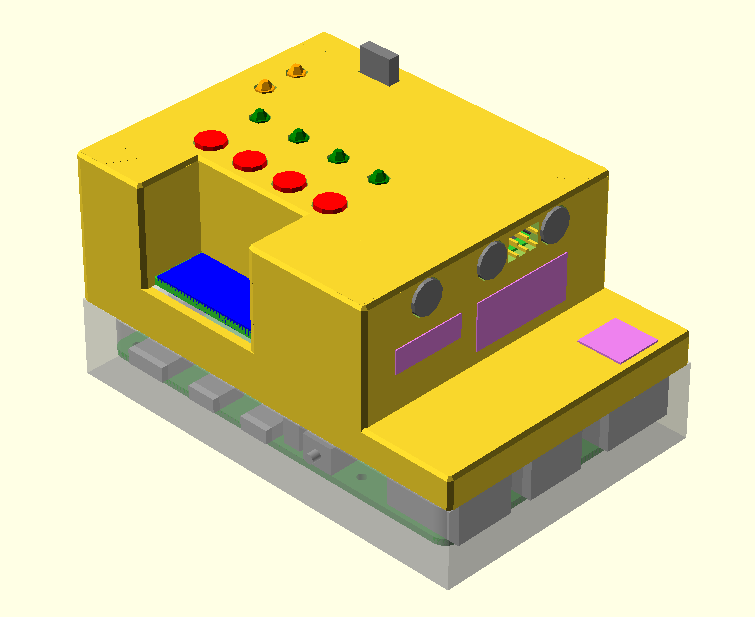
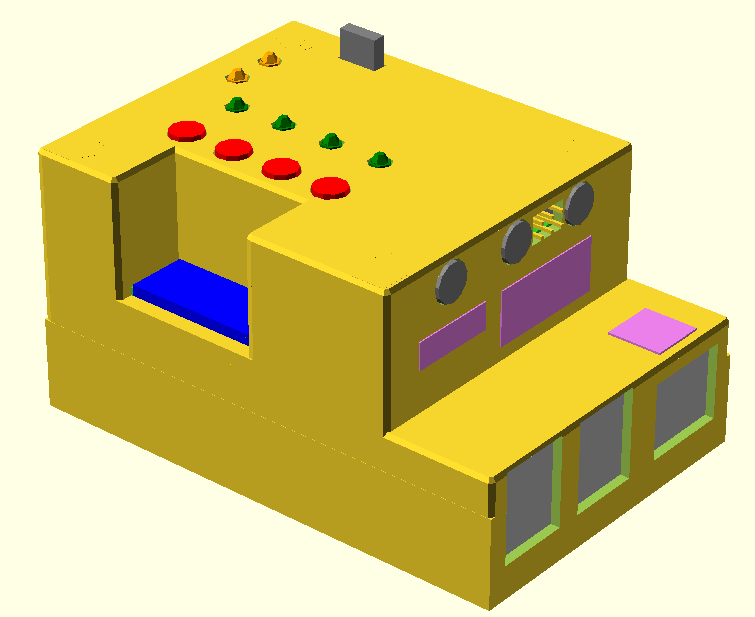
box: USB and Eth holes; warning; cover box without PCB diff.

diff --git a/README.md b/README.md
@@ -35,3 +35,15 @@ make STL files
 make only SLICE=[lower,middle,upper,cover] STL file
 
 `make $SLICE`, e.g. `make cover`
+
+# dev.
+
+## TODO
+
+- text with OpenSCAD version higher
+- check sizes: USB, Eth, hole for oLED (PCB <-> cover box)
+- screwing procedure
+
+## BUG
+
+- cover box without PCB diff. (too much objects, choose either PCB or LED difference, not both)
